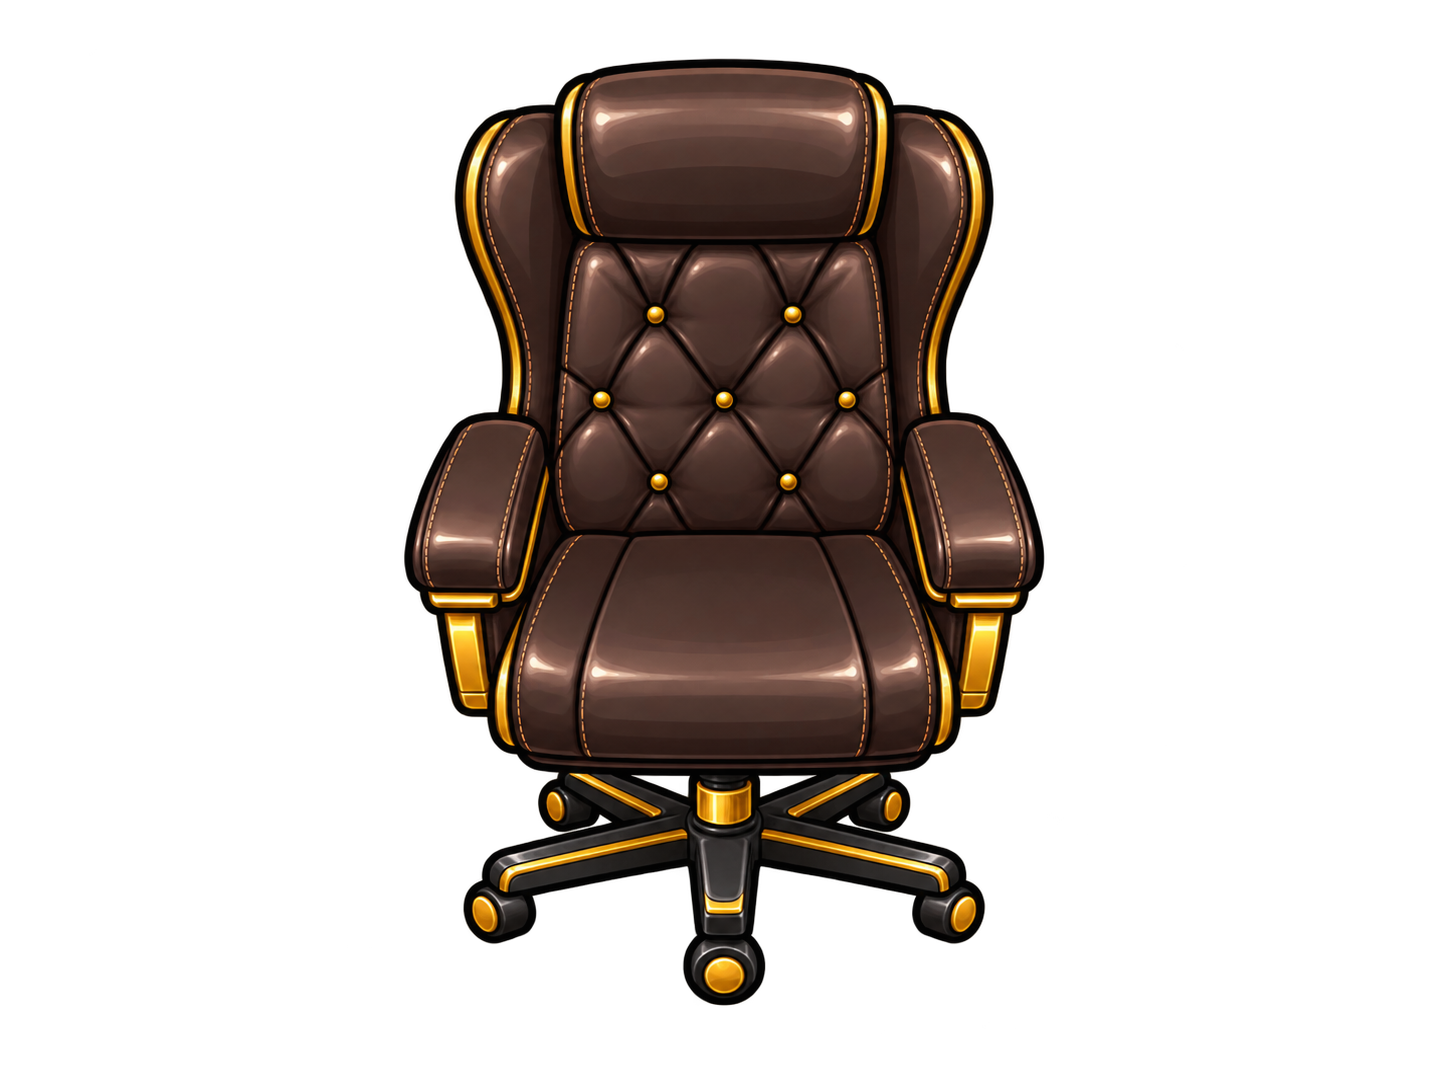
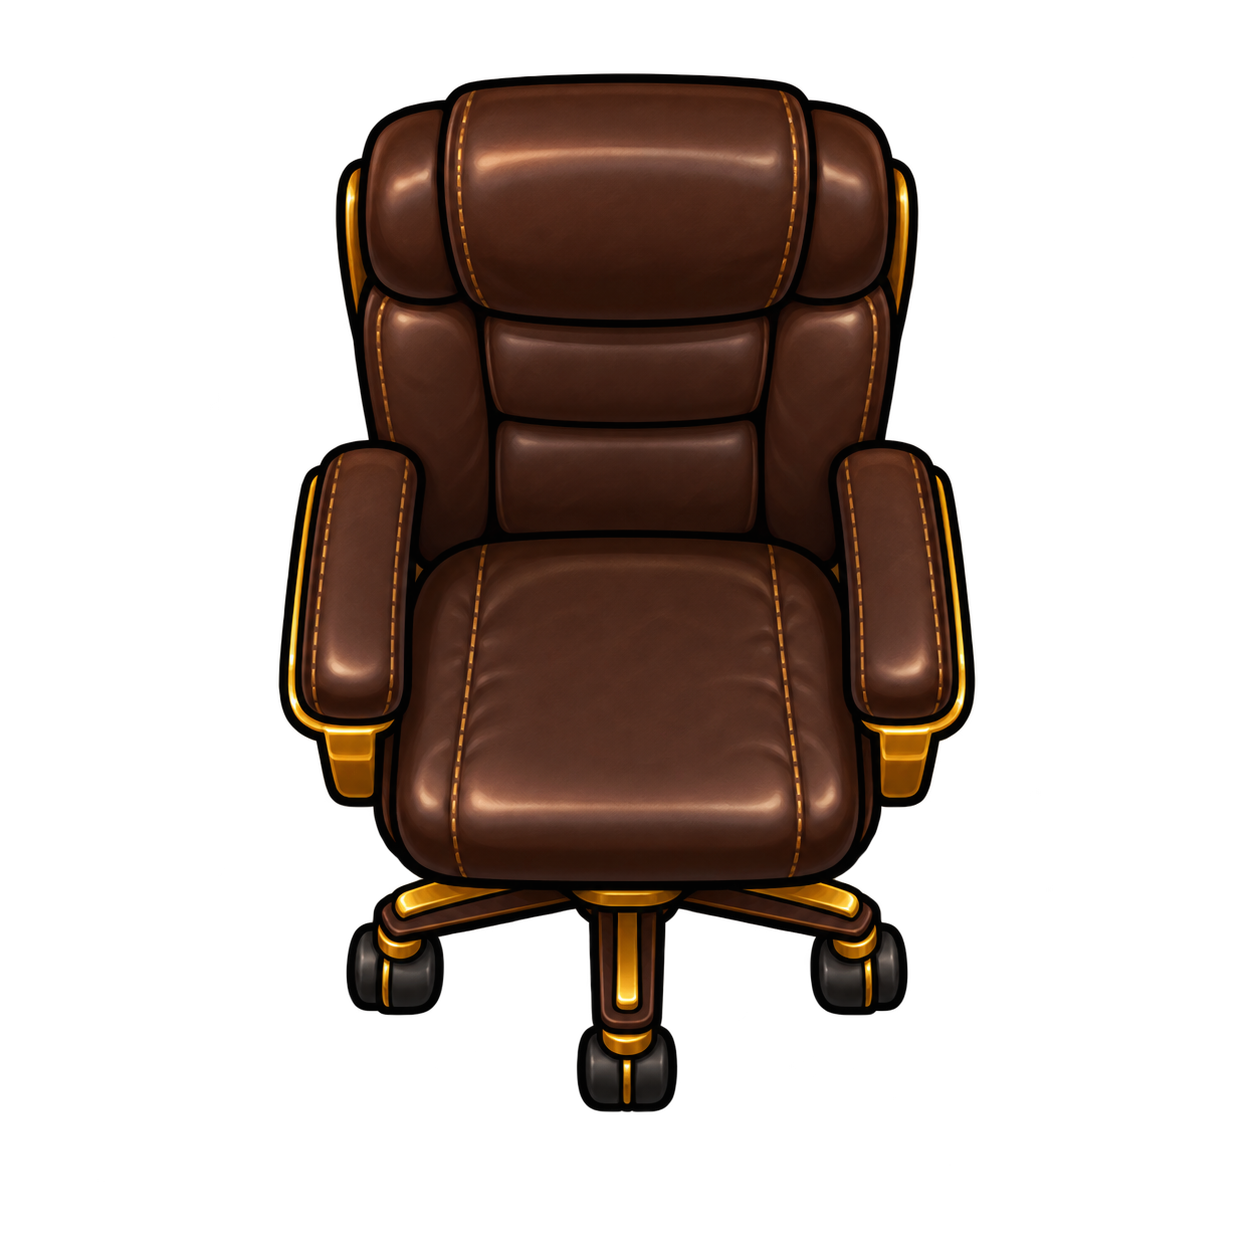
feat(office): second sprite delivery wired — per-room desks and chairs (keys = file names, -rotated = sitter north of the desk), QA/analyst desks back to back, reception counter 8×3, spa; dev console exposes sim intents

Changed region(s): [[0.2177, 0.0304, 0.7775, 0.942]]

diff --git a/packages/sim/src/office-plan.ts b/packages/sim/src/office-plan.ts
@@ -62,29 +62,27 @@ function structure(p: Plan): void {
 }
 
 function workplaces(p: Plan): void {
-  // Boss: a six-cell desk seen with the monitor's back, the boss sits north of it facing the room.
-  p.object("boss-desk", "BOSS", "desk-boss", { x: 3, y: 7, w: 6, h: 3 }, "s");
-  p.seat("boss-desk", { x: 6, y: 6 }, "s", undefined, "boss-desk");
-  // Developers: two rows of three touching desks (5 × 3 each), the seat south of the desk facing the screen.
+  // Sprite keys are the delivery file names. "-rotated" art shows a desk's front panel and the monitors' backs:
+  // its sitter is north of the desk, facing the room; plain desk art shows drawers and screens, its sitter south.
+  // Boss: behind a six-cell desk, facing the room.
+  p.object("boss-desk", "BOSS", "desk-boss-rotated", { x: 3, y: 7, w: 6, h: 3 }, "s");
+  p.seat("boss-desk", { x: 6, y: 6 }, "s", "chair-boss", undefined, "boss-desk");
+  // Developers: two rows of three touching desks (5 × 3 each), the seat south of the desk facing the screens.
   for (const [i, x] of [19, 24, 29, 39, 44, 49].entries()) {
     const id = `dev-${String(i + 1)}`;
-    p.object(id, `DEV ${String(i + 1)}`, "desk-n", { x, y: 7, w: 5, h: 3 }, "n");
-    p.seat(id, { x: x + 2, y: 10 }, "n", "dev");
+    p.object(id, `DEV ${String(i + 1)}`, "desk-developer", { x, y: 7, w: 5, h: 3 }, "n");
+    p.seat(id, { x: x + 2, y: 10 }, "n", "chair-developer", "dev");
   }
-  // QA and analysts: one long shared desk per room (5 × 6) with a seat at each end, facing each other.
-  for (const [room, x] of [
-    ["qa", 60],
-    ["analyst", 72],
+  // QA and analysts: two desks back to back per room form the reference's long shared desk — the north one
+  // rotated (its sitter faces south), the south one plain (its sitter faces north).
+  for (const [room, label, x] of [
+    ["qa", "QA", 60],
+    ["analyst", "AN", 72],
   ] as const) {
-    p.object(
-      `${room}-desk`,
-      room === "qa" ? "QA · 2" : "AN · 2",
-      "desk-pair",
-      { x, y: 7, w: 5, h: 6 },
-      "s",
-    );
-    p.seat(`${room}-1`, { x: x + 2, y: 6 }, "s", room);
-    p.seat(`${room}-2`, { x: x + 2, y: 13 }, "n", room);
+    p.object(`${room}-desk-1`, `${label} 1`, `desk-${room}-rotated`, { x, y: 7, w: 5, h: 3 }, "s");
+    p.seat(`${room}-1`, { x: x + 2, y: 6 }, "s", `chair-${room}-rotated`, room);
+    p.object(`${room}-desk-2`, `${label} 2`, `desk-${room}`, { x, y: 10, w: 5, h: 3 }, "n");
+    p.seat(`${room}-2`, { x: x + 2, y: 13 }, "n", `chair-${room}`, room);
   }
   p.object("boss-visitors", "HOSTÉ", "sofa", { x: 4, y: 11, w: 5, h: 2 });
   p.anchor("boss-visitors", "sleep", { x: 6, y: 13 }, "n");
@@ -95,9 +93,10 @@ function workplaces(p: Plan): void {
 
 function sharedSpaces(p: Plan): void {
   p.object("lift-shaft", "VÝTAH", "elevator", { x: 1, y: 23, w: 8, h: 6 });
-  p.object("reception", "název firmy", "reception-desk", { x: 14, y: 27, w: 8, h: 2 });
+  // The reception counter is drawn frontally (≈4 cells tall); the receptionist stands behind it.
+  p.object("reception", "název firmy", "desk-reception-rotated", { x: 14, y: 26, w: 8, h: 3 });
   p.anchor("reception", "reception", { x: 17, y: 30 });
-  p.anchor("reception-staff", "wander", { x: 17, y: 26 }, "s");
+  p.anchor("reception-staff", "wander", { x: 17, y: 25 }, "s");
   // The post lands on the reception counter; a courier carries it to the boss.
   p.object("mailbox", "", "mailbox", { x: 22, y: 27, w: 1, h: 1 }, "s", true);
   p.anchor("mailbox", "mailbox", { x: 22, y: 28 }, "n");
@@ -126,7 +125,7 @@ function sharedSpaces(p: Plan): void {
     p.object(`call-desk-${String(i + 1)}`, "", "call-desk", { x: 31, y, w: 2, h: 1 });
     p.anchor(`call-${String(i + 1)}`, "wander", { x: 31, y: y + 2 });
   }
-  p.object("hot-tub", "VÍŘIVKA", "hot-tub", { x: 72, y: 26, w: 5, h: 6 });
+  p.object("hot-tub", "VÍŘIVKA", "spa", { x: 72, y: 26, w: 5, h: 6 });
   p.anchor("hot-tub", "relax", { x: 74, y: 33 });
   p.object("grill", "GRIL", "grill", { x: 66, y: 36, w: 3, h: 2 });
   p.anchor("grill", "coffee", { x: 67, y: 38 });

diff --git a/packages/ui/src/office/office-canvas.tsx b/packages/ui/src/office/office-canvas.tsx
@@ -1,5 +1,5 @@
 import type { AgentId } from "@ho/protocol";
-import { OFFICE_FLOOR_ID } from "@ho/sim";
+import * as sim from "@ho/sim";
 import { useEffect, useRef } from "react";
 import { useUi } from "../store.ts";
 import { createPlanView } from "./plan-view.ts";
@@ -59,12 +59,13 @@ export function OfficeCanvas(): React.JSX.Element {
       created.onSelect = (agentId: AgentId | null) => {
         useUi.getState().selectAgent(agentId);
       };
-      Object.assign(window, { __ho: { bridge, sprites, scene: created } });
+      // Dev console handle: the bridge, the sprite library, the scene and the simulation's intents.
+      Object.assign(window, { __ho: { bridge, sprites, scene: created, sim } });
       created.app.ticker.add((ticker) => {
         try {
           bridge.tick(ticker.deltaMS);
           created.syncFloors(bridge.world);
-          created.showFloor(OFFICE_FLOOR_ID);
+          created.showFloor(sim.OFFICE_FLOOR_ID);
           created.update(bridge.world, ticker.deltaMS, nameOf, useUi.getState().selectedAgentId);
         } catch (error) {
           useUi.getState().setError(error instanceof Error ? error.message : String(error));

diff --git a/packages/sim/src/office-builder.ts b/packages/sim/src/office-builder.ts
@@ -135,20 +135,12 @@ export class Plan {
     id: string,
     seat: Point,
     facing: "n" | "s",
+    chair: string,
     group?: string,
     kind: "desk" | "boss-desk" = "desk",
   ): void {
     // Chairs in the reference are about 1.5 cells wide around a one-cell seat; the art is centred on it.
-    // The boss has an executive chair of its own; everyone else shares chair-n / chair-s.
-    this.object(
-      `${id}-chair`,
-      "",
-      kind === "boss-desk" ? "chair-boss" : `chair-${facing}`,
-      { ...seat, w: 1, h: 1 },
-      facing,
-      false,
-      CHAIR_ART_W,
-    );
+    this.object(`${id}-chair`, "", chair, { ...seat, w: 1, h: 1 }, facing, false, CHAIR_ART_W);
     this.anchor(id, kind, seat, facing, group);
   }
 }

diff --git a/docs/OFFICE-ART.md b/docs/OFFICE-ART.md
@@ -55,32 +55,33 @@ trims the transparent margins, scales the art to the footprint at `CELL_PX` and 
 art the moment its key exists; `bun run assets:manifest` lists what is still missing with the size it needs.
 Object keys and footprints (width × height in cells; art may rise above the footprint, never sideways or below):
 
-| Key                  | Footprint           | Count | Notes                                                                                |
-| -------------------- | ------------------- | ----- | ------------------------------------------------------------------------------------ |
-| `desk-n`             | 5 × 3               | 6     | developer desk, seat south of it, screen faces the viewer                            |
-| `desk-pair`          | 5 × 6               | 2     | QA / analyst shared desk, one seat at each end, two monitors back to back            |
-| `desk-boss`          | 6 × 3               | 1     | boss desk, seat north of it, monitor seen from behind                                |
-| `chair-n`, `chair-s` | 1 × 1, art 1.5 wide | 8 / 2 | empty chairs centred on the seat (36 px wide); the seated pose belongs to characters |
-| `chair-boss`         | 1 × 1, art 1.5 wide | 1     | the boss's executive chair, seen from the front                                      |
-| `elevator`           | 8 × 6               | 1     | doors open toward the threshold below                                                |
-| `reception-desk`     | 8 × 2               | 1     | company name is a runtime overlay                                                    |
-| `mailbox`            | 1 × 1               | 1     | animations `empty` and `full`                                                        |
-| `bookshelf`          | 3 × 2               | 3     |                                                                                      |
-| `sofa`               | 5 × 2               | 1     | boss visitors                                                                        |
-| `meeting-table`      | 7 × 3               | 1     |                                                                                      |
-| `kitchen-units`      | 11 × 2              | 1     |                                                                                      |
-| `dining-table`       | 6 × 2               | 1     |                                                                                      |
-| `toilet`             | 2 × 2               | 2     |                                                                                      |
-| `sinks`              | 2 × 4               | 1     |                                                                                      |
-| `dryer-bin`          | 1 × 2               | 1     |                                                                                      |
-| `tv`                 | 1 × 4               | 1     | TV with the console                                                                  |
-| `sofa-lounge`        | 3 × 5               | 1     |                                                                                      |
-| `foosball`           | 4 × 5               | 1     | four rods per player                                                                 |
-| `call-desk`          | 2 × 1               | 2     |                                                                                      |
-| `hot-tub`            | 5 × 6               | 1     |                                                                                      |
-| `grill`              | 3 × 2               | 1     |                                                                                      |
-| `outdoor-table`      | 7 × 4               | 1     |                                                                                      |
-| `ashtray`            | 1 × 1               | 1     |                                                                                      |
+| Key                                                                                         | Footprint           | Count             | Notes                                                                                                  |
+| ------------------------------------------------------------------------------------------- | ------------------- | ----------------- | ------------------------------------------------------------------------------------------------------ |
+| `desk-developer`                                                                            | 5 × 3               | 6                 | developer desk, drawers and screens to the viewer, sitter south of it                                  |
+| `desk-qa-rotated`, `desk-qa`                                                                | 5 × 3               | 1 / 1             | QA desks back to back: the rotated one (front panel, monitors' backs) seats north, the plain one south |
+| `desk-analyst-rotated`, `desk-analyst`                                                      | 5 × 3               | 1 / 1             | same pattern for the analysts                                                                          |
+| `desk-boss-rotated`                                                                         | 6 × 3               | 1                 | boss desk, boss behind it facing the room                                                              |
+| `chair-developer`, `chair-qa`, `chair-qa-rotated`, `chair-analyst`, `chair-analyst-rotated` | 1 × 1, art 1.5 wide | 6 / 1 / 1 / 1 / 1 | room-specific chairs centred on the seat (36 px wide); `-rotated` sits the north seat                  |
+| `chair-boss`                                                                                | 1 × 1, art 1.5 wide | 1                 | the boss's executive chair                                                                             |
+| `elevator`                                                                                  | 8 × 6               | 1                 | doors open toward the threshold below                                                                  |
+| `desk-reception-rotated`                                                                    | 8 × 3               | 1                 | reception counter, frontal, ≈4 cells tall; the receptionist stands behind it                           |
+| `mailbox`                                                                                   | 1 × 1               | 1                 | animations `empty` and `full`                                                                          |
+| `bookshelf`                                                                                 | 3 × 2               | 3                 |                                                                                                        |
+| `sofa`                                                                                      | 5 × 2               | 1                 | boss visitors                                                                                          |
+| `meeting-table`                                                                             | 7 × 3               | 1                 |                                                                                                        |
+| `kitchen-units`                                                                             | 11 × 2              | 1                 |                                                                                                        |
+| `dining-table`                                                                              | 6 × 2               | 1                 |                                                                                                        |
+| `toilet`                                                                                    | 2 × 2               | 2                 |                                                                                                        |
+| `sinks`                                                                                     | 2 × 4               | 1                 |                                                                                                        |
+| `dryer-bin`                                                                                 | 1 × 2               | 1                 |                                                                                                        |
+| `tv`                                                                                        | 1 × 4               | 1                 | TV with the console                                                                                    |
+| `sofa-lounge`                                                                               | 3 × 5               | 1                 |                                                                                                        |
+| `foosball`                                                                                  | 4 × 5               | 1                 | four rods per player                                                                                   |
+| `call-desk`                                                                                 | 2 × 1               | 2                 |                                                                                                        |
+| `spa`                                                                                       | 5 × 6               | 1                 | hot tub                                                                                                |
+| `grill`                                                                                     | 3 × 2               | 1                 |                                                                                                        |
+| `outdoor-table`                                                                             | 7 × 4               | 1                 |                                                                                                        |
+| `ashtray`                                                                                   | 1 × 1               | 1                 |                                                                                                        |
 
 Characters: sets `boss`, `agent-a`, `agent-b`, `agent-c` and `postman` are the placeholders in use today (32 × 32
 frames from the 16 px era; the renderer scales any set to two cells tall). A delivered set replaces one by name: frames 2 cells wide × 5 tall (D21),

diff --git a/assets/README.md b/assets/README.md
@@ -18,7 +18,7 @@ assets/src/<category>/<sprite>/<animation>[_<dir>]_f<frame>.png
 ```
 
 - `category`: `furniture`, `characters`, `bubbles`.
-- `sprite`: the key from the plan (`desk-n`, `chair-s`, `elevator`, `hot-tub`, …), a character set name or an
+- `sprite`: the key from the plan (`desk-developer`, `chair-qa`, `elevator`, `spa`, …), a character set name or an
   emotion name.
 - `animation`: lowercase letters only. `static` for furniture without states; `empty`/`full` for the mailbox;
   character activities are listed below.
@@ -39,12 +39,14 @@ All sizes derive from one constant, `CELL_PX` in `packages/sim/src/office-plan.t
   footprint**. Art may rise above the footprint (a monitor, a tall shelf, the elevator's frame); it never extends
   below or to the sides. A wrong width is scaled to the footprint and reported in the red banner.
 - One frame per state, `static_f0.png` for most objects; the mailbox has `empty_f0.png` and `full_f0.png`.
-- Desks (footprints measured from the reference): `desk-n` (5 × 3) is the developer desk — the person sits
-  **south** of it facing north, so the viewer sees their back and the monitor's screen. `desk-pair` (5 × 6) is the
-  shared QA / analyst desk with a seat at each end and two monitors back to back. `desk-boss` (6 × 3) has the
-  boss **north** of it facing the room, the monitor seen from behind. A desk is drawn over whoever sits north of it,
-  so an upward overhang hides that sitter's chest, not the head. Empty chairs are separate sprites (`chair-n`
-  seen from behind, `chair-s` from the front, `chair-boss` for the boss) on a 1 × 1 seat with art **1.5 cells wide** (36 px), centred on the
+- Desks (footprints measured from the reference) are per room and their keys are the delivery file names:
+  `desk-developer` (5 × 3, six of them), `desk-qa` / `desk-qa-rotated` and `desk-analyst` / `desk-analyst-rotated`
+  (5 × 3 each, back to back as one long desk), `desk-boss-rotated` (6 × 3), `desk-reception-rotated` (8 × 3).
+  **`-rotated`** means the sitter is _north_ of the desk facing the room: the art shows the desk's front panel and
+  the monitors' backs. Plain desk art shows drawers and screens; its sitter is south of it. A desk is drawn over
+  whoever sits north of it, so an upward overhang hides that sitter's chest, not the head.
+- Chairs are per room too (`chair-developer`, `chair-qa`, `chair-qa-rotated`, `chair-analyst`,
+  `chair-analyst-rotated`, `chair-boss`), on a 1 × 1 seat with art **1.5 cells wide** (36 px), centred on the
   seat — the one case where art is wider than its footprint (`artWidth` in the plan); the seated pose belongs to
   the character.
 
@@ -134,7 +136,9 @@ look at it in the live app (`bun run ui:watch` + `ho daemon --ui`) and only then
 {
   "version": 1,
   "tileSize": 24,
-  "sprites": { "furniture/desk-n": { "static": ["assets/src/furniture/desk-n/static_f0.png"] } }
+  "sprites": {
+    "furniture/desk-developer": { "static": ["assets/src/furniture/desk-developer/static_f0.png"] }
+  }
 }
 ```
 

diff --git a/docs/PLAN.md b/docs/PLAN.md
@@ -228,3 +228,4 @@ Append entries as `- YYYY-MM-DD — <task id or topic> — <outcome> — <follow
 - 2026-09-06 — Converter trim threshold — The chair still looked small and sat off-centre: the generator's PNG carries an invisible halo (alpha 1–8) hundreds of pixels outside the visible object, so trimming on alpha > 0 kept empty margins (9 of 36 columns blank). `assets:import` now treats alpha below 16/255 as empty (cleared before resampling) and reports the visible crop; the chair became 36 × 42 px filling its width, the desk 120 × 75 (its halo went too). — Follow-ups: none.
 - 2026-09-07 — Inbox versioned — Owner decision: the raw generator deliveries in `assets/inbox/` are committed (≈0.5–1.3 MB per PNG) so every sprite can be re-cut when the contract changes; the chair was recoloured and re-imported. — Follow-ups: none.
 - 2026-09-07 — Size audit (D21) — Side-by-side of the reference and our render at 25 px per cell showed matching widths (desk 5, boss desk 6, chair 1.5 cells) and missing height: people 2 vs ≈5 cells, monitors/chair backs flatter than the reference. Owner picked a 2 × 5 character canvas; converter (`characters/*` → 48 × 120), renderer (scale by width, bubble follows the head) and docs updated. Added `assets/reference/crops/` (4× cut-outs of single objects, standing and seated figures) so generation prompts carry the reference's proportions. No global scale: touching desks would overlap and seats/doors misalign. — Follow-ups: regenerate the developer desk with the cut-out if the flat monitors bother; character sets at 2 × 5.
+- 2026-09-07 — Second delivery (14 sprites) — The owner regenerated everything with the reference cut-outs and a camera angle matching the base image, one design per room: developer, QA and analyst desks and chairs, boss desk and chair, reception counter, hot tub. Sprite keys are now the delivery file names; `-rotated` marks a desk whose sitter is north of it facing the room (front panel and monitors' backs visible). Plan: QA and analysts have two 5 × 3 desks back to back again (rotated north at row 7, plain south at row 10, seats at rows 6 and 13) instead of `desk-pair`; the reception counter grew to 8 × 3 (its frontal art is ≈4 cells tall) and the receptionist anchor moved to row 25; `hot-tub` art key is `spa`. Every import trimmed cleanly (chairs 36 × 47–54, desks 120–192 wide, tub 120 × 134), 28 sprites in the manifest, 16 keys still stand-ins. `window.__ho.sim` exposes the simulation's intents for tuning sessions. — Follow-ups: chairs are all drawn from the front (a chair seen from behind would show its backrest over the sitter's back); character sets at 2 × 5.
